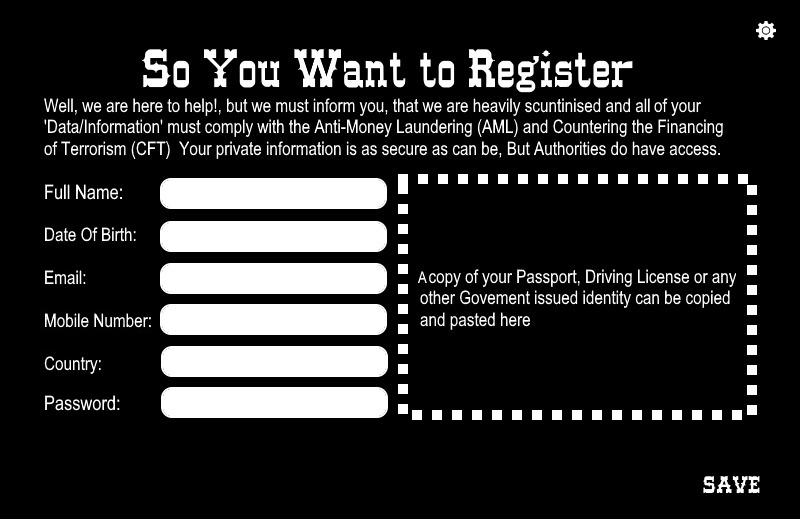
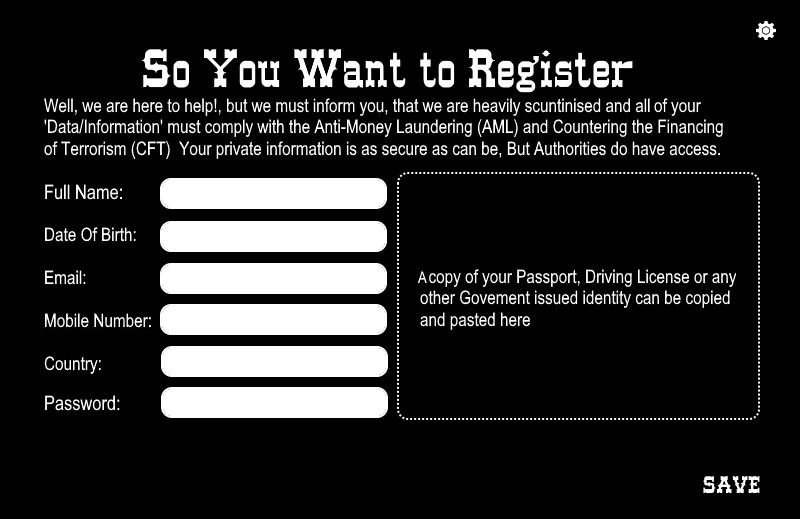
changes

Changed region(s): [[0.5, 0.3083, 0.9688, 0.8324]]

diff --git a/server/public/styles.css b/server/public/styles.css
@@ -95,7 +95,7 @@ body::before {
 .start-menu-canvas {
   position: relative;
   width: min(92vw, 900px);
-  pointer-events: none;
+  pointer-events: auto;
   border-radius: 16px;
   overflow: hidden;
   box-shadow: 0 35px 70px rgba(0, 0, 0, 0.7);
@@ -110,7 +110,7 @@ body::before {
 .start-menu-overlay-layer {
   position: absolute;
   inset: 0;
-  pointer-events: none;
+  pointer-events: auto;
 }
 
 .start-menu-overlay-layer > * {

diff --git a/server/public/app.js b/server/public/app.js
@@ -515,7 +515,7 @@ function addMenuFileField(rect, options = {}) {
   } else {
     wrapper.style.removeProperty('--preview-image');
     wrapper.classList.remove('has-preview');
-    wrapper.textContent = 'Upload ID';
+    wrapper.textContent = '';
   }
   startMenuRefs.overlay.appendChild(wrapper);
 }
